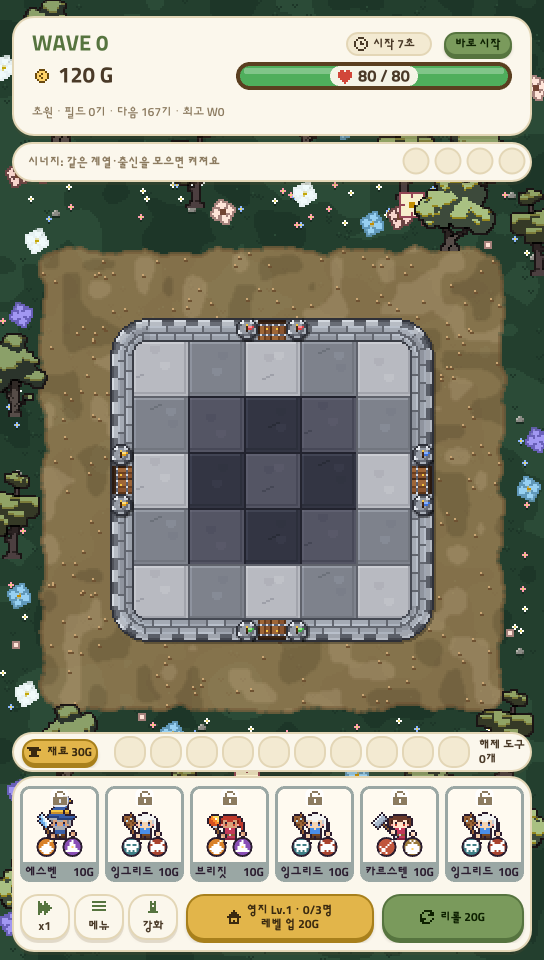
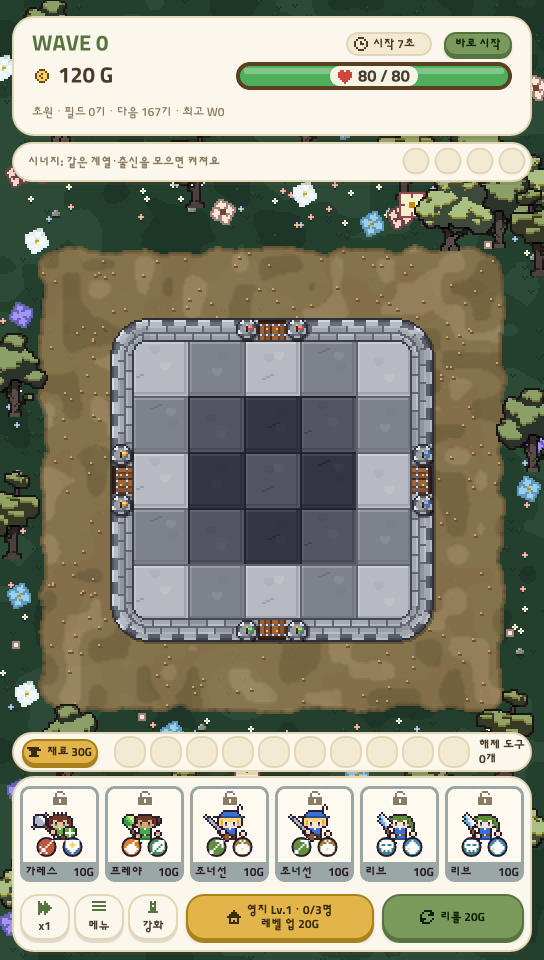
art: 배경 나무 오른쪽 1그루 + 오른쪽 위 2그루 손으로 추가 (25그루)
Claude-Session: https://claude.ai/code/session_01SZsqwRfS18NGHG22PfppyP

diff --git a/src/data/decor.js b/src/data/decor.js
@@ -28,8 +28,10 @@ export const DECOR = {
     { key: 'deco_flower_4', x: 305, y: 207, phase: 0, flip: true },
     { key: 'deco_flower_2', x: 460, y: 212, phase: 0 },
     { key: 'deco_flower_3', x: 224, y: 225, phase: 0, flip: true },
+    { key: 'deco_tree_2', x: 528, y: 228, phase: 0.94, flip: true },
     { key: 'deco_flower_2', x: 409, y: 230, phase: 0, flip: true },
     { key: 'deco_flower_1', x: 372, y: 237, phase: 0 },
+    { key: 'deco_tree_1', x: 498, y: 246, phase: 0.59 },
     { key: 'deco_tree_2', x: 448, y: 249, phase: 0.79 },
     { key: 'deco_flower_6', x: 488, y: 249, phase: 0 },
     { key: 'deco_flower_4', x: 37, y: 254, phase: 0, flip: true },
@@ -37,6 +39,7 @@ export const DECOR = {
     { key: 'deco_flower_5', x: 21, y: 328, phase: 0, flip: true },
     { key: 'deco_tree_1', x: 16, y: 415, phase: 0.73, flip: true },
     { key: 'deco_flower_5', x: 537, y: 453, phase: 0, flip: true },
+    { key: 'deco_tree_1', x: 534, y: 470, phase: 0.85, flip: true },
     { key: 'deco_flower_1', x: 529, y: 502, phase: 0, flip: true },
     { key: 'deco_tree_3', x: 14, y: 557, phase: 0.58, flip: true },
     { key: 'deco_flower_1', x: 19, y: 609, phase: 0 },

diff --git a/docs/drafts/tree-sway/scatter.py b/docs/drafts/tree-sway/scatter.py
@@ -71,6 +71,14 @@ while len(flowers) < NF and tries < 200000:
         continue
     flowers.append({'key': key, 'x': x, 'y': y, 'flip': rnd.random() < 0.5, 'phase': 0})
 assert len(flowers) == NF, (len(flowers), '꽃 자리가 모자람')
+# 손으로 더 심은 나무 (2026-11-22 사용자 요청: 오른쪽 하나 + 오른쪽 위 두 그루를 붙여서) — 무작위 결과는 그대로 두고 덧붙인다
+hand = random.Random('grass-hand')
+for x, y, flip in [(534, 470, True), (498, 246, False), (528, 228, True)]:
+    near = sorted(((x - o['x']) ** 2 + (y - o['y']) ** 2, o['key']) for o in trees)[:2]
+    used = {k for _, k in near}
+    key = min(COLORS, key=lambda c: (c in used, count[c], hand.random()))
+    count[key] += 1
+    trees.append({'key': key, 'x': x, 'y': y, 'flip': flip, 'phase': round(hand.random(), 2)})
 trees += flowers
 trees.sort(key=lambda d: (d['y'], d['x']))
 lines = ',\n'.join(f"    {{ key: '{d['key']}', x: {d['x']}, y: {d['y']}, phase: {d['phase']}{', flip: true' if d['flip'] else ''} }}" for d in trees)
@@ -78,4 +86,4 @@ p = os.path.join(ROOT, 'src', 'data', 'decor.js')
 s = open(p).read()
 s = re.sub(r"  grass: \[\n.*?\n  \]", "  grass: [\n    // 화면 전체(UI 뒤 땅 포함)에 흩뿌린 나무·꽃 — docs/drafts/tree-sway/scatter.py 가 쓴다 (손으로 고치면 다음 실행에 덮인다)\n" + lines + "\n  ]", s, flags=re.S)
 open(p, 'w').write(s)
-print(N, 'trees', count, NF, 'flowers', {k: sum(f['key'] == k for f in flowers) for k in FKEYS})
+print(len([t for t in trees if t['key'].startswith('deco_tree')]), 'trees', count, NF, 'flowers', {k: sum(f['key'] == k for f in flowers) for k in FKEYS})

diff --git a/CLAUDE.md b/CLAUDE.md
@@ -81,7 +81,7 @@
 - **도트 굵기 = 모두 2px (2026-11-21 사용자 결정, `DOT`)**: 필드·캐릭터·스킬 이펙트·유물 아이콘에 더해 UI 아이콘·로비·타이틀(2px 격자 그림 272x480·640x360·272x482·203x360)·예전 이펙트 시트(Scale2x 2배 해상도)·화살·동전(배율 2)·코드로 그린 몬스터·투사체·입자(`dotKey` — 정예 2배·보스 3배 해상도, 보스 배율 5→6). 로비·병영·술집 캐릭터 그림도 크기 인자 없이 2px(`charImage`, 작은 칸은 'head' 머리만). `PX`(4)는 배치 단위로만 남음
 - **필드 크기 (2026-11-19 사용자 결정)**: 칸 56px(캐릭터 사이를 넓게 — 이전 48·64, 캐릭터 그림 48px 은 그대로), 성벽 두께 20, 석판 28 아트 px, **몬스터 길 폭은 1.5배(64px)** 로 넓혀 몬스터가 더 넓게 퍼져 걷는다(`laneSpread` 24). **유닛은 몸통 중심이 칸 가운데**(직접 그린 그림은 manifest `pivotX`·`pivotY`)
 - **성문 (2026-11-21)**: 전투 필드 성벽 동서남북 가운데에 성문(둥근 탑 2 + 나무 두짝 문, 성벽 두께 안). 세부는 `rtd-art-pipeline`
-- **배경 나무·꽃 (2026-11-22)**: 초원에 사용자 그림 나무 3종(`deco_tree_1~3`, 50x50, 2px) **22그루** + 꽃 6종(`deco_flower_1~6`, 사용자 그림 2장을 송이마다 잘라 냄, 정지 그림) **50송이**를 필드·몬스터 길만 피해 **화면 전체(UI 뒤 땅 포함)에 무작위로 흩뿌림**(최소 간격, 줄지어 서지 않게, 일부 좌우 뒤집기, 가까운 것끼리 종류 덜 겹치게, `docs/drafts/tree-sway/scatter.py`) — 나무는 바람에 살랑이는 28프레임 × 100ms 반복(`sway.py`, 밑동 고정·잎 안쪽 바스락), 나무마다 박자 다름, 모두 몬스터 아래 층. 자리 `src/data/decor.js`, 그리기 `src/art/decor.js`, 꽃 `docs/drafts/flowers/flowers.py`. 지역이 바뀌면 서서히 사라짐
+- **배경 나무·꽃 (2026-11-22)**: 초원에 사용자 그림 나무 3종(`deco_tree_1~3`, 50x50, 2px) **25그루**(무작위 22 + 오른쪽·오른쪽 위에 손으로 3) + 꽃 6종(`deco_flower_1~6`, 사용자 그림 2장을 송이마다 잘라 냄, 정지 그림) **50송이**를 필드·몬스터 길만 피해 **화면 전체(UI 뒤 땅 포함)에 무작위로 흩뿌림**(최소 간격, 줄지어 서지 않게, 일부 좌우 뒤집기, 가까운 것끼리 종류 덜 겹치게, `docs/drafts/tree-sway/scatter.py`) — 나무는 바람에 살랑이는 28프레임 × 100ms 반복(`sway.py`, 밑동 고정·잎 안쪽 바스락), 나무마다 박자 다름, 모두 몬스터 아래 층. 자리 `src/data/decor.js`, 그리기 `src/art/decor.js`, 꽃 `docs/drafts/flowers/flowers.py`. 지역이 바뀌면 서서히 사라짐
 - 배경: 10웨이브마다 지역 교체(지역 배경 레이어만 바뀜) — 초원 → 사막 → 가을 숲 → 화산 → 설원 → 늪 → 수정 동굴 → 묘지 → 천공의 섬 → 공허의 끝. 플랫 픽셀(2~3톤 얼룩, 잡티 금지), 석판은 회색 체크무늬. 초원 흙길은 밝은 브라운(`#b38d5c` 계열)
 - 몬스터 외형: 일반 5웨이브마다(20종), 정예·보스는 웨이브마다 전용(각 10종)
 - 소리: 16비트 풍 WebAudio 합성(배경음 4곡 + 효과음), 외부 오디오 파일 없음

diff --git a/docs/HISTORY.md b/docs/HISTORY.md
@@ -232,3 +232,4 @@
 - 2026-11-21 배경 나무 다시 배치 — 길을 따라 늘어선 느낌 대신 화면 전체(UI 뒤 포함)에 무작위 40그루(2배), 최소 간격 포아송 흩뿌리기 (`scatter.py`)
 - 2026-11-22 배경 나무를 사용자 새 그림 3종(`deco_tree_1~3`)으로 교체 — 그림마다 28프레임 흔들림, 예전 나무·잎 색 변형 삭제, 40그루 다시 흩뿌림
 - 2026-11-22 초원 배경: 나무 40 → 22그루로 줄이고 사용자 그림 꽃 6종 50송이 추가 (`docs/drafts/flowers/flowers.py`, `scatter.py`)
+- 2026-11-22 배경 나무 오른쪽 1그루 + 오른쪽 위 2그루(붙여서) 손으로 추가 — 25그루
